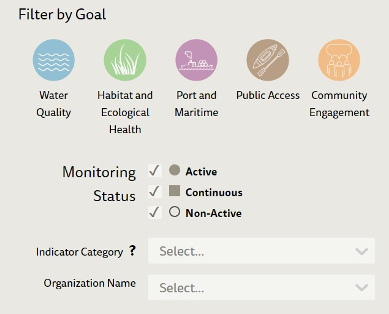
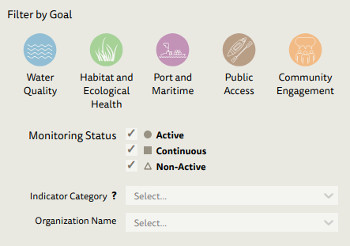
Update legend with triangle

diff --git a/src/components/Filters.scss b/src/components/Filters.scss
@@ -129,9 +129,11 @@
     }
 
     &.status-non-active {
-      background: transparent;
-      border-color: $dark-grey;
-      border-radius: 50%;
+      background: none;
+      background-image: url(../img/triangle-default.svg);
+      background-position: center;
+      background-repeat: no-repeat;
+      background-size: 150%;
     }
   }
 
